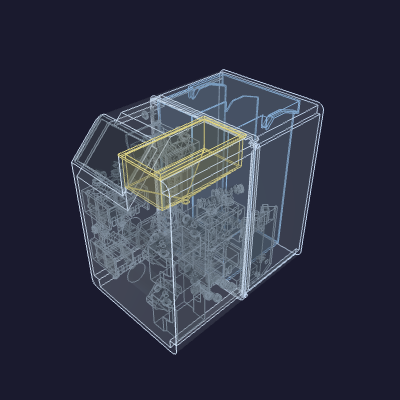
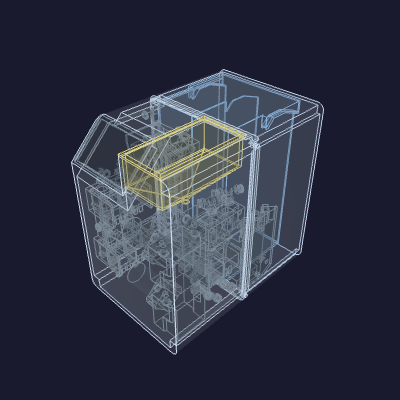
lite: tuck bag-circuit back against source-select, closing the 7.7 mm dead gap
bag-circuit sat with a 7.7 mm dead gap between its back and the source-select
front. Re-anchor it to source's front with the design's standard 1 mm tray gap
(it had been pinned 2 mm behind the pump front). Closes the gap and consolidates
the left column; envelope unchanged (the pumps still set the front edge at y=32,
and bag's front stays behind them). All clashes 0.000.

Changed region(s): [[0.18, 0.39, 0.39, 0.69]]

diff --git a/pie-in-the-sky/lite/enclosure-assembly/_contents.py b/pie-in-the-sky/lite/enclosure-assembly/_contents.py
@@ -25,8 +25,8 @@ zone, ahead of the reservoir:
   * Back-left:  the source-select tray stood vertical and turned a quarter-turn so
     its long footprint side lies along the back wall — wide in X, shallow in Y —
     back face on the split, against the reservoir.
-  * Front-left:  the bag-circuit tray stood vertical, narrow in X, dropped into the
-    strip left of the pump motors, just behind the pump fronts.
+  * Left column:  the bag-circuit tray stood vertical, narrow in X, in the strip
+    left of the pump motors, its back tucked against the source-select front.
   * Front-right, high:  the hopper funnel (added in the assembly, derived from the
     enclosure) — a narrow-X, deep-Y slot dropping over the short trays.
   * +X back band:  the power tray (Mean Well PSU + Wago distribution + ground
@@ -84,6 +84,7 @@ PUMP_FRONT_Y = 32.0        # pump front face (and box front edge): the front clu
 PUMP_HEAD_X = 200.0        # the pump heads' +X face (the void's bottom-right corner)
 STACK_TO_PUMP_GAP = 1.0    # gap from the pump backs to the short-tray stack front (Y)
 STACK_GAP = 2.0            # vertical gap between stacked parts (Z)
+BAG_SOURCE_GAP = 1.0       # gap from the bag-circuit back to the source-select front (Y)
 # The short trays (bib, nozzle) STACK into one footprint at the back-right, front
 # against the pump backs. Each tray is linear — tees at one end, ELBOWS at the
 # other. bib stands elbows-up (rot +90 about Y); nozzle is flipped end-for-end
@@ -180,11 +181,12 @@ def build():
                  xmin=SRC_X_INSET, ymax=split_front, zmin=FLOOR_LIFT)
     placed["source-select"] = (src, COLORS["source-select"])
 
-    # --- Front-left void: bag-circuit stood vertical (rot +90 about Y), narrow in
-    # X so it drops into the strip left of the pump motors, sitting just behind the
-    # pump fronts so the pumps alone set the box front edge.
+    # --- Left column, ahead of source-select: bag-circuit stood vertical (rot +90
+    # about Y), narrow in X in the strip left of the pump motors, its back tucked
+    # against the source-select front (no dead gap). It still clears the pump
+    # fronts, which set the box front edge.
     bag = _place(_rot(_load(TRAY_STEPS["bag-circuit"]), (0, 1, 0), 90.0),
-                 xmin=X_INSET, ymin=PUMP_FRONT_Y + 2.0, zmin=FLOOR_LIFT)
+                 xmin=X_INSET, ymax=src.BoundingBox().ymin - BAG_SOURCE_GAP, zmin=FLOOR_LIFT)
     placed["bag-circuit"] = (bag, COLORS["bag-circuit"])
 
     # --- Reservoir-pockets, back, doorway facing the cabinet back. Rotate +90
